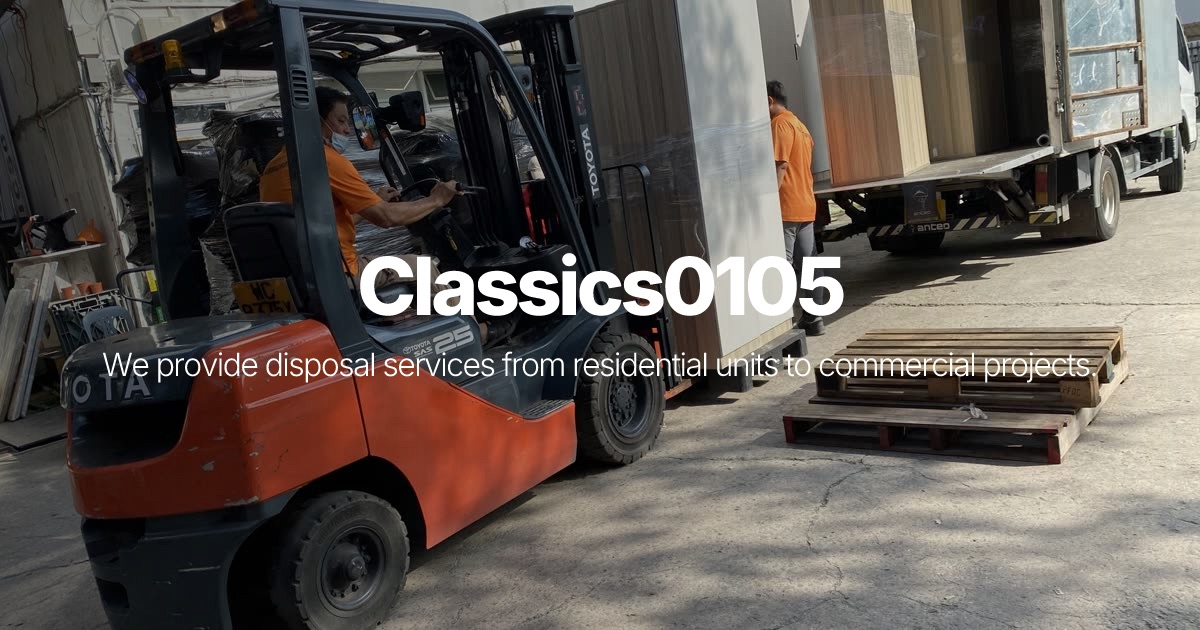
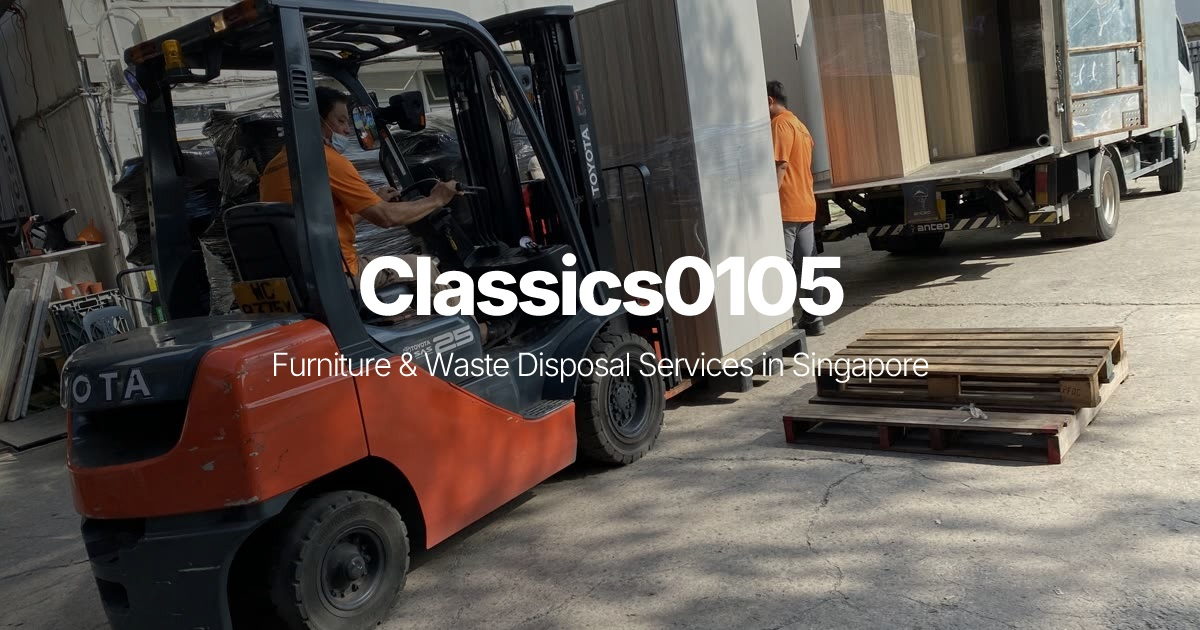
Use deployment origin for og:image, regenerate og.jpg, drop next-seo
- Add src/utils/siteUrl.ts: getSiteOrigin() returns the production domain
  when NEXT_PUBLIC_VERCEL_ENV is "production", https://$NEXT_PUBLIC_VERCEL_URL
  on other Vercel deployments, else http://localhost:3000. og:image and the
  JSON-LD image use it, so previews no longer point at a prod og.jpg that
  does not exist yet. canonical and og:url stay on the production domain.
- Regenerate public/og.jpg (1200x630 JPEG, 196,650 bytes) with the subtitle
  "Furniture & Waste Disposal Services in Singapore" to match the H1.
- Remove the unused next-seo dependency.

Claude-Session: https://claude.ai/code/session_01WjBNTBbq5hy5pJNNBbn5KC

Changed region(s): [[0.0925, 0.5429, 0.925, 0.6032]]

diff --git a/pages/index.js b/pages/index.js
@@ -5,12 +5,13 @@ import Footer from '@components/Footer';
 import Features from '@components/Features';
 import { Box } from '@chakra-ui/react';
 import Statistics from '@components/Statistics';
+import { getSiteOrigin, PRODUCTION_URL } from '@utils/siteUrl';
 
-const siteUrl = 'https://www.classics0105.com.sg';
+const siteUrl = PRODUCTION_URL;
 const title = 'Furniture & Waste Disposal Singapore | Classics0105';
 const description =
   'Furniture & waste disposal in Singapore for residential units and commercial projects, from offices to schools. Call or WhatsApp Classics0105 at +65 9184 1433.';
-const ogImage = `${siteUrl}/og.jpg`;
+const ogImage = `${getSiteOrigin()}/og.jpg`;
 
 const localBusiness = {
   '@context': 'https://schema.org',

diff --git a/src/utils/siteUrl.ts b/src/utils/siteUrl.ts
@@ -1,0 +1,14 @@
+export const PRODUCTION_URL = 'https://www.classics0105.com.sg';
+
+// Origin of the current deployment, for assets that only exist on this build
+// (e.g. og:image on a preview). Canonical/og:url should use PRODUCTION_URL.
+// NEXT_PUBLIC_VERCEL_* are Vercel system env vars, inlined at build time.
+export function getSiteOrigin(): string {
+  if (process.env.NEXT_PUBLIC_VERCEL_ENV === 'production') {
+    return PRODUCTION_URL;
+  }
+  if (process.env.NEXT_PUBLIC_VERCEL_URL) {
+    return `https://${process.env.NEXT_PUBLIC_VERCEL_URL}`;
+  }
+  return 'http://localhost:3000';
+}
